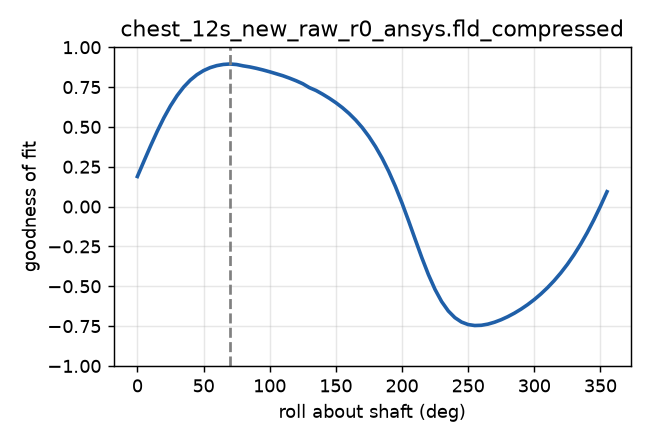
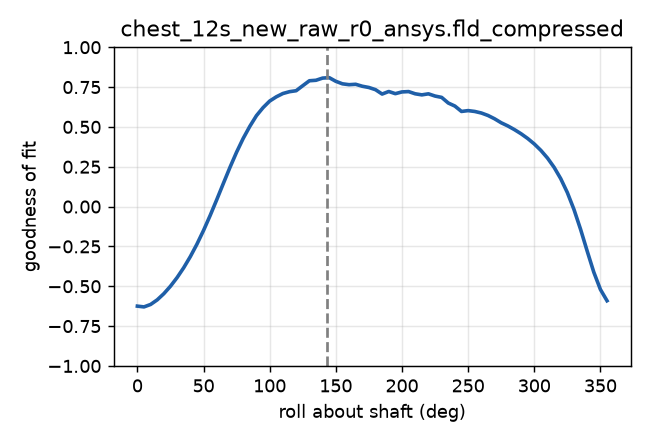
rotation_fit: corrected Ansys->head axes (x left, y apex, z nose), exact placement verified against the SolidWorks tip
Claude-Session: https://claude.ai/code/session_01FAr9thgJNRrkMrKUajRbz4

diff --git a/analysis/rotation_fit.py b/analysis/rotation_fit.py
@@ -3,15 +3,15 @@
 Pipeline (per recording, each with its own dev_head_t from the fif header):
   1. period-locked average of the stimulation pulse (exact stimulation period, no peak detection)
   2. signed peak per magnetometer -> measured map
-  3. Ansys current export placed in head coordinates: located by the electrode tip, oriented by the
-     Ansys->head rotation (exact if you give the fiducials in the Ansys/CT frame, otherwise the
-     fitted rotation), then rotated about the shaft in steps of --roll-step
+  3. Ansys current export placed in head coordinates by the Ansys->head transform (--exact, recommended:
+     the model origin is the fiducial midpoint, so no tip input is needed), or by an electrode tip
+     position (--tip), then rotated about the shaft in steps of --roll-step
   4. correlation of the model map with the measured map at each roll; best roll, its noise-limited
      uncertainty, and the same uncertainty extrapolated to --full-duration seconds
 
 Examples
-  python analysis/rotation_fit.py --fif data/chest_12s_new_raw.fif --ansys data/J_2a_2b.npz
-  python analysis/rotation_fit.py --fif r0.fif r11.fif r45.fif --ansys data/J_2a_2b.npz --full-duration 180
+  python analysis/rotation_fit.py --fif r0.fif r11.fif r45.fif --ansys data/r0_ansys.fld_compressed.npz --exact --i-sim <A>
+  python analysis/rotation_fit.py --fif r0.fif --ansys data/r*_ansys.fld_compressed.npz --exact --family --i-sim <A>
   python analysis/rotation_fit.py --fif r0.fif --ansys data/J_2a_2b.npz \
         --fiducials-ansys LPAx LPAy LPAz NASx NASy NASz RPAx RPAy RPAz     (metres, Ansys frame)
 
@@ -28,9 +28,10 @@ mne.set_log_level('ERROR')
 MU0_4PI = 1e-7
 TIP_HEAD = np.array([-0.03403, -0.04753, -0.08755])   # electrode tip, head coordinates (m)
 AXIS_ANSYS = np.array([0., 1., 0.])                    # shaft direction in the Ansys frame (tip -> lid, toward the apex)
-# Ansys -> head rotation from the model's axis convention: Ansys +x = posterior (head -y), Ansys +y = apex
-# (head +z), Ansys +z = left ear (head -x). Exact up to the bucket's tilt; use --fiducials-ansys for the exact transform.
-R_NOMINAL = np.array([[0., 0., -1.], [-1., 0., 0.], [0., 1., 0.]])
+# Ansys -> head rotation. The Ansys model's origin is the LPA-RPA midpoint and its x-z plane is the fiducial plane;
+# its axes are +x toward the left ear (head -x), +y toward the apex (head +z), +z toward the nose (head +y).
+# Verified: the r0 export's contacts at Ansys (3, -41, -63) mm map to head (-3, -63, -41) mm, the SolidWorks tip.
+R_NOMINAL = np.array([[-1., 0., 0.], [0., 0., 1.], [0., 1., 0.]])
 R_FIT = R_NOMINAL
 PLANAR_BASELINE = 0.0168                               # Neuromag planar gradiometer baseline (m)
 

diff --git a/analysis/README.md b/analysis/README.md
@@ -8,7 +8,7 @@
 - `fit_2a2b_roll_scan.py`, `ansys_forward.py` – earlier one-off comparisons, superseded.
 
 Data notes
-- `data/J_2a_2b.npz` is the valid current export (lead at (71, -36, 21) mm in the Ansys frame).
+- `data/r0_ansys.fld_compressed.npz` ... `r90_...` are the valid exports (corrected geometry, true lead rotations; contacts at Ansys (3, -41, -63) mm = head (-3, -63, -41) mm). `J_2a_2b.npz` is the earlier geometry.
 - `data/J_2a_3a.npz` has the lead in the wrong place (68 mm off) and must not be used for comparisons.
 - `data/helmet_20s_raw.fif` (IPG on the bucket inside the helmet) is dominated by a 1.4 cm² current loop below the
   front rim; `data/chest_20s_raw.fif` (4 mA) and `data/chest_12s_new_raw.fif` (7.5 mA, 2a-2b) are clean.
